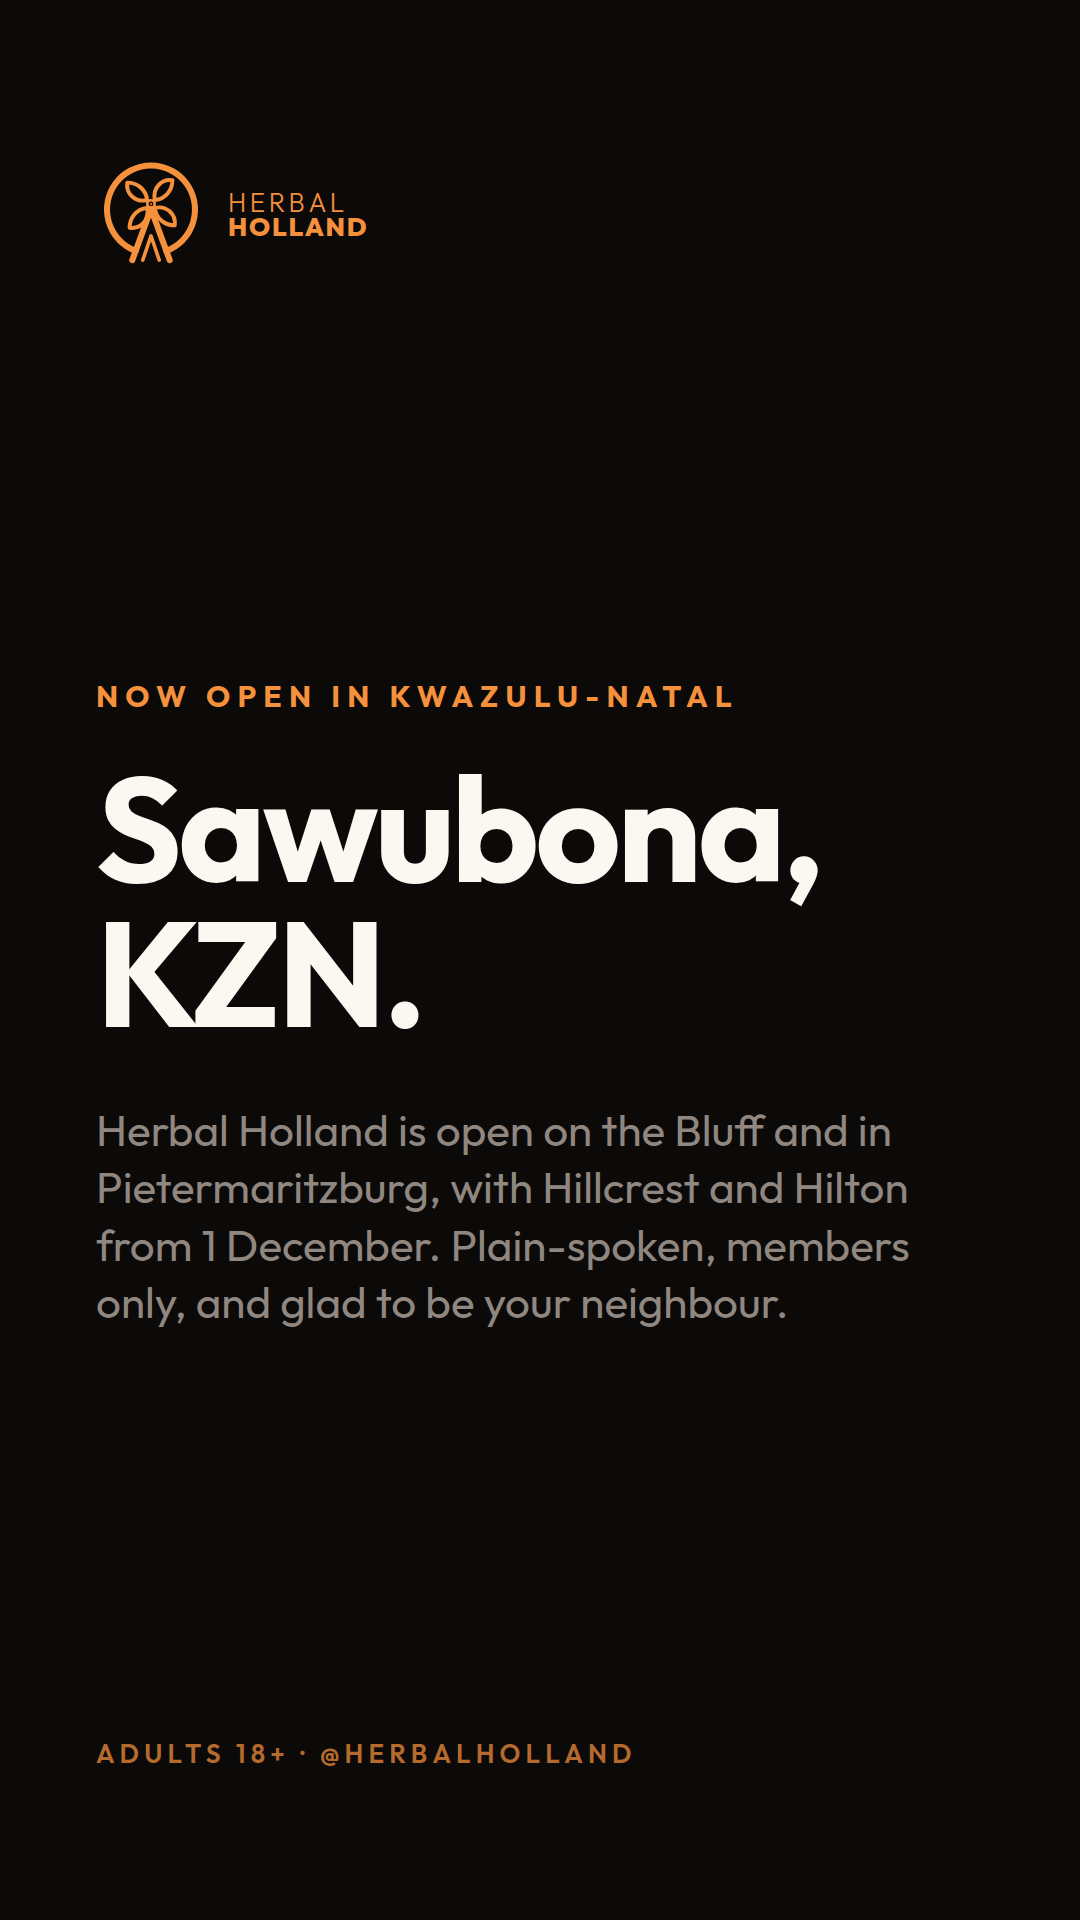
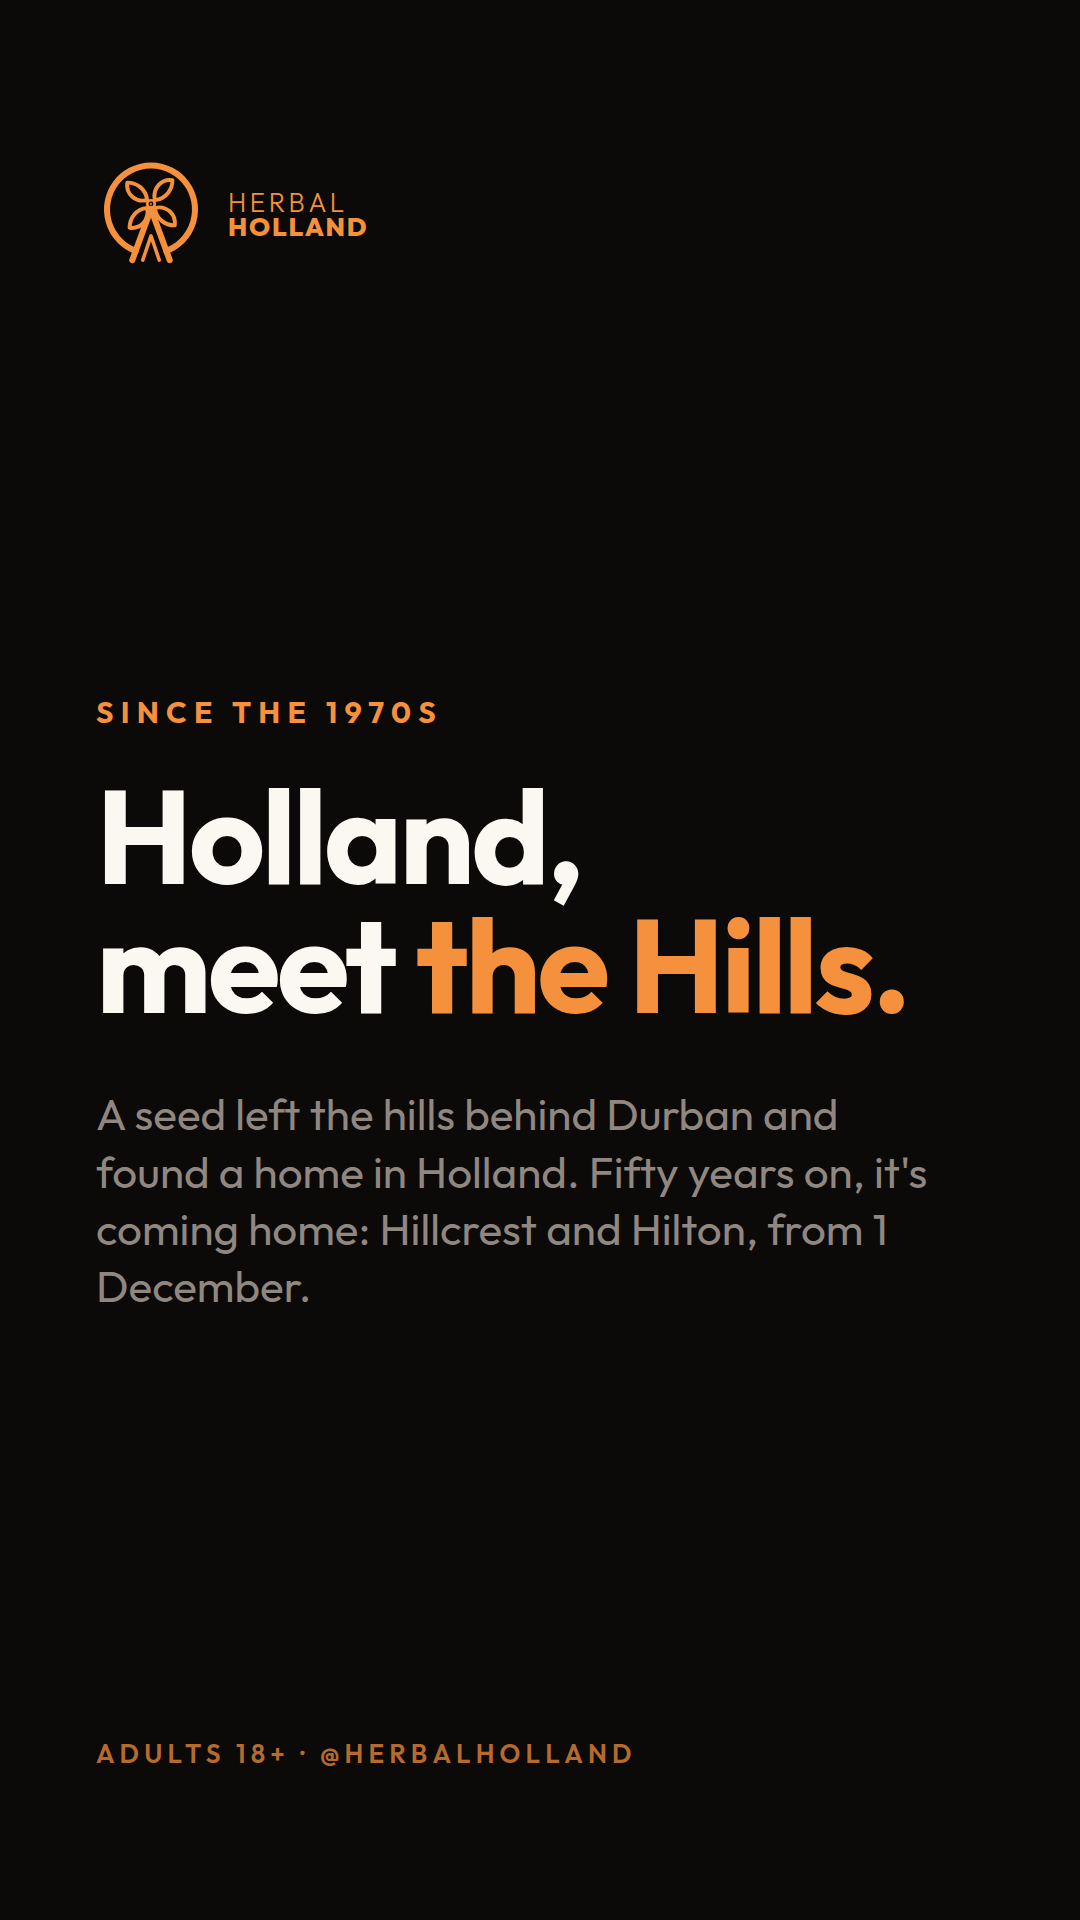
Social kit: the Hills story on the Facebook cover and welcome post, herbalholland.com/join, bios without lab claims
Claude-Session: https://claude.ai/code/session_018vsjrGfvxYr17q99sCwpK4

Changed region(s): [[0.0917, 0.4062, 0.8556, 0.6875], [0.0917, 0.3438, 0.6722, 0.375]]

diff --git a/scripts/social-kit.tsx b/scripts/social-kit.tsx
@@ -10,7 +10,7 @@ import { MarkGlyph } from "../src/components/brand/logo";
 
 const OUT = "public/brand/social";
 const SUNSET = "#f5913c", INK = "#0c0a09", CREAM = "#fbf7f1", INK_450 = "#8f8780";
-const JOIN = "shop.herbalholland.com/club/join";
+const JOIN = "herbalholland.com/join";
 mkdirSync(OUT, { recursive: true });
 
 const font = readFileSync("node_modules/@fontsource-variable/outfit/files/outfit-latin-wght-normal.woff2").toString("base64");
@@ -50,7 +50,7 @@ const cover: Spec = {
       <div class="m" style="width:320px;height:320px;flex:none">${mark(SUNSET)}</div>
       <div style="flex:none;max-width:820px">
         ${wordmark}
-        <div class="p" style="margin-top:34px;font-size:40px;color:${CREAM};max-width:820px">Now open on the Bluff and in Pietermaritzburg, with Hillcrest and Hilton from 1 December. A neighbourhood brand for adults 18+.</div>
+        <div class="p" style="margin-top:34px;font-size:40px;color:${CREAM};max-width:820px">Holland, meet the Hills. Hillcrest and Hilton, opening Tuesday 1 December. Members only, adults 18+.</div>
         <div class="small" style="margin-top:30px;font-size:22px;color:${SUNSET};opacity:1">Join Herbal Holland Rewards, free</div>
         <div class="small" style="margin-top:8px;font-size:22px;color:${INK_450}">${JOIN}</div>
       </div>
@@ -102,9 +102,9 @@ const CARDS = [
   {
     slug: "1-welcome", ground: INK, ink: SUNSET,
     inner: (tall: boolean) => `
-      <div class="eyebrow" style="font-size:${tall ? 30 : 26}px;color:${SUNSET}">Now open in KwaZulu-Natal</div>
-      <div class="h" style="margin-top:${tall ? 40 : 28}px;font-size:${tall ? 148 : 128}px;color:${CREAM}">Sawubona,<br>KZN.</div>
-      <div class="p" style="margin-top:${tall ? 56 : 40}px;font-size:${tall ? 44 : 38}px;color:${INK_450};max-width:${tall ? 860 : 820}px">Herbal Holland is open on the Bluff and in Pietermaritzburg, with Hillcrest and Hilton from 1 December. Plain-spoken, members only, and glad to be your neighbour.</div>`,
+      <div class="eyebrow" style="font-size:${tall ? 30 : 26}px;color:${SUNSET}">Since the 1970s</div>
+      <div class="h" style="margin-top:${tall ? 40 : 28}px;font-size:${tall ? 132 : 112}px;color:${CREAM}">Holland,<br>meet <span style="color:${SUNSET}">the Hills.</span></div>
+      <div class="p" style="margin-top:${tall ? 56 : 40}px;font-size:${tall ? 44 : 38}px;color:${INK_450};max-width:${tall ? 860 : 820}px">A seed left the hills behind Durban and found a home in Holland. Fifty years on, it's coming home: Hillcrest and Hilton, from 1 December.</div>`,
   },
   {
     slug: "2-founding", ground: SUNSET, ink: INK,

diff --git a/docs/SOCIAL-ACCOUNTS.md b/docs/SOCIAL-ACCOUNTS.md
@@ -28,7 +28,7 @@ Files for the profiles:
 | Profile picture (all three) | `avatar-ink.png` (the mark on warm black; `avatar-brand.png` on orange is the alternative) | 1024×1024 |
 | Facebook cover | `facebook-cover.png` (everything important sits in the centre, which is all a phone shows) | 1640×624 |
 | TikTok profile video poster / story frame | `story-cover.png` | 1080×1920 |
-| Instagram highlight covers | `highlight-rewards.png`, `highlight-stores.png`, `highlight-lab-tested.png`, `highlight-founding.png`, `highlight-learn.png` | 1080×1080 |
+| Instagram highlight covers | `highlight-rewards.png`, `highlight-stores.png`, `highlight-specials.png`, `highlight-founding.png`, `highlight-learn.png` | 1080×1080 |
 | The pinned set, square | `post-1-welcome.png`, `post-2-founding.png`, `post-3-join.png` | 1080×1080 |
 | The pinned set, story | `story-1-welcome.png`, `story-2-founding.png`, `story-3-join.png` | 1080×1920 |
 
@@ -53,7 +53,7 @@ Instagram account are owned by the company and not by whoever's personal profile
    (Accounts → Instagram accounts) confirm it shows under the portfolio. Settings → Privacy → set the **minimum age to
    18** (Instagram → Settings → Audience: 18+).
 4. Profile picture `avatar-ink.png`. Bio below. Website: https://shop.herbalholland.com/go. Add the five highlights
-   as empty highlights first (Rewards, Stores, Lab-tested, Founding, Learn), with the highlight covers, then fill
+   as empty highlights first (Rewards, Stores, Specials, Founding, Learn), with the highlight covers, then fill
    them from the stories you post.
 
 ## 3. TikTok
@@ -76,18 +76,18 @@ All three under 150 characters, with "Adults 18+", the place, and the /go link. 
 
 **Instagram** (140 characters):
 
-> Sawubona, Hillcrest & Hilton. Lab-tested, plain-spoken, glad to be your neighbour. Adults 18+. Join Rewards free ⤵
+> Holland, meet the Hills. Hillcrest & Hilton from 1 Dec. Members only, adults 18+. Be a founding member: join free ⤵
 > shop.herbalholland.com/go
 
 **TikTok** (132 characters, TikTok shows the link separately):
 
-> Sawubona, Hillcrest & Hilton. Lab-tested, plain-spoken, glad to be your neighbour. Adults 18+. Join Rewards free ⤵
+> Holland, meet the Hills. Hillcrest & Hilton from 1 Dec. Members only, adults 18+. Be a founding member: join free ⤵
 > (link in profile)
 
 **Facebook** ("Intro" box, and the About page gets the longer version):
 
-> Herbal Holland is a neighbourhood brand opening in Hillcrest and Hilton, KwaZulu-Natal. Lab-tested, plain-spoken,
-> and glad to be your neighbour. Adults 18+. Join Herbal Holland Rewards free: shop.herbalholland.com/go
+> Herbal Holland: Dutch heritage, African soil. Our first stores open in Hillcrest and Hilton, KwaZulu-Natal, on
+> 1 December. Members only, adults 18+. Join Herbal Holland Rewards free: shop.herbalholland.com/go
 
 What **not** to put in a bio, username, name or category (each one has got brands reviewed and removed):
 
